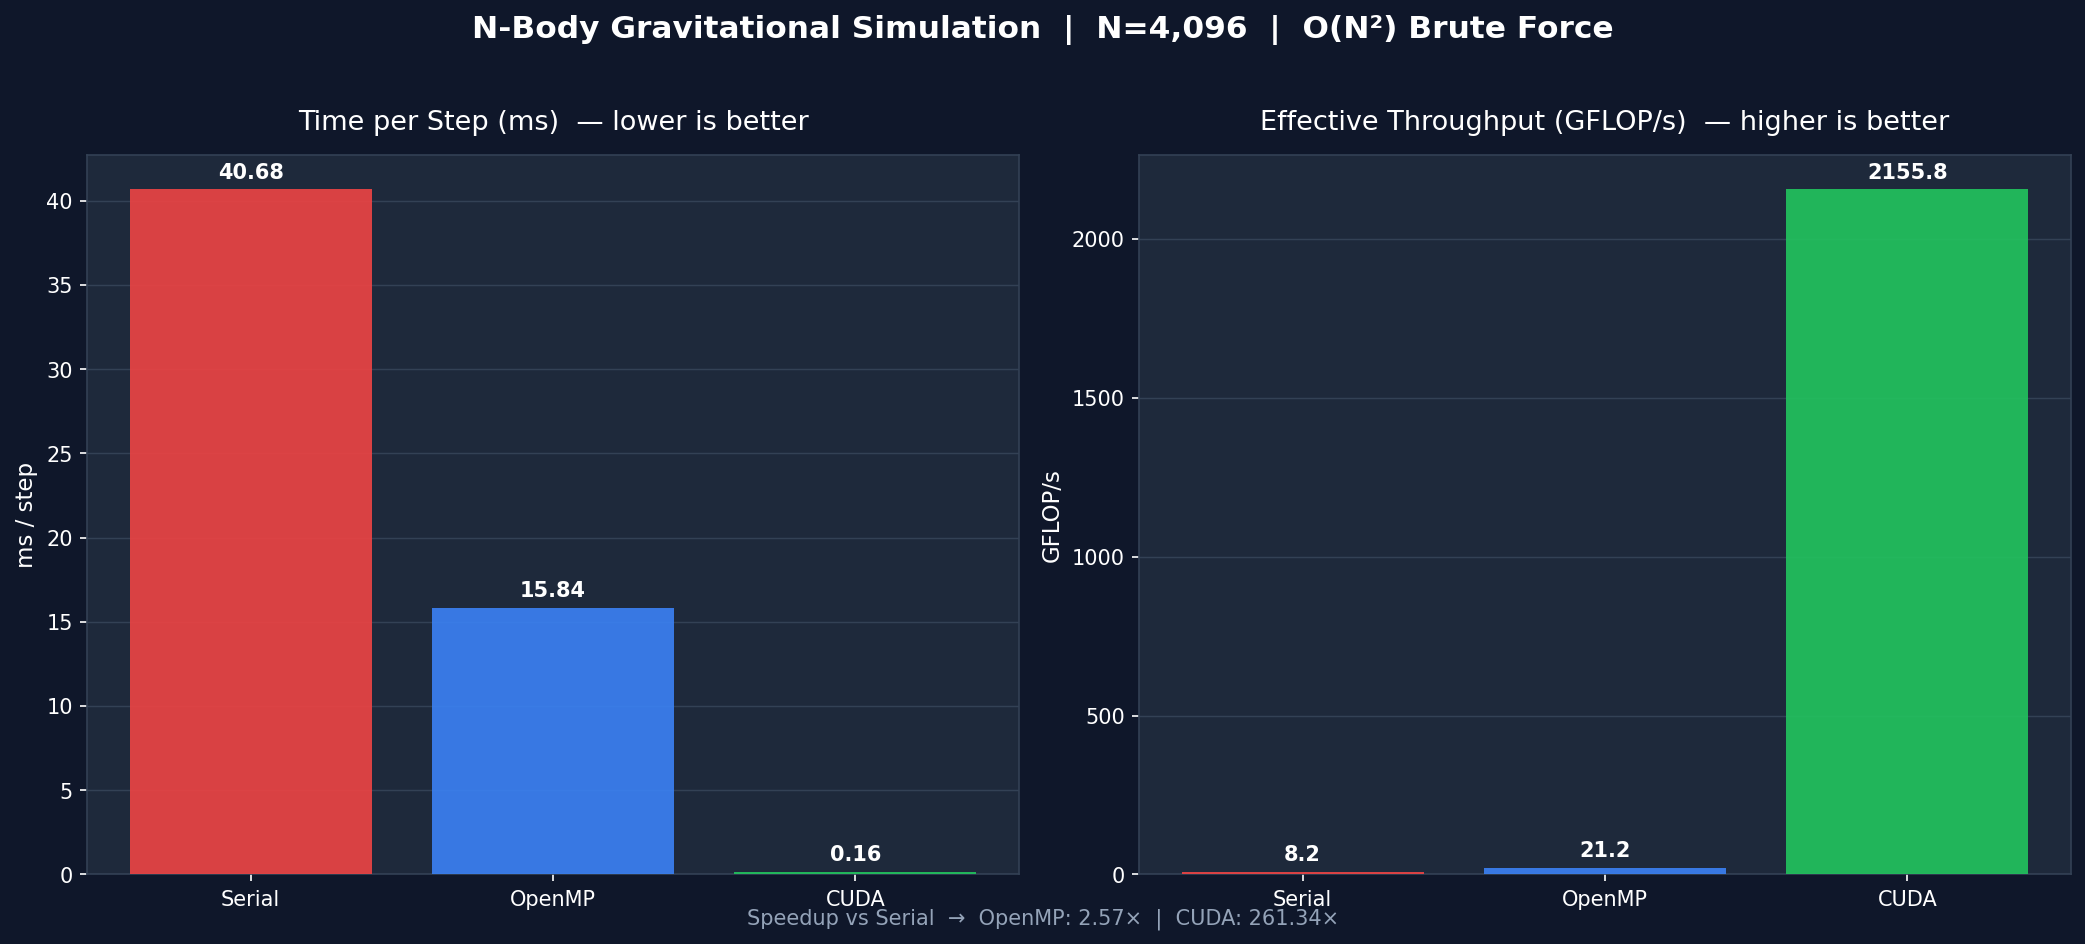
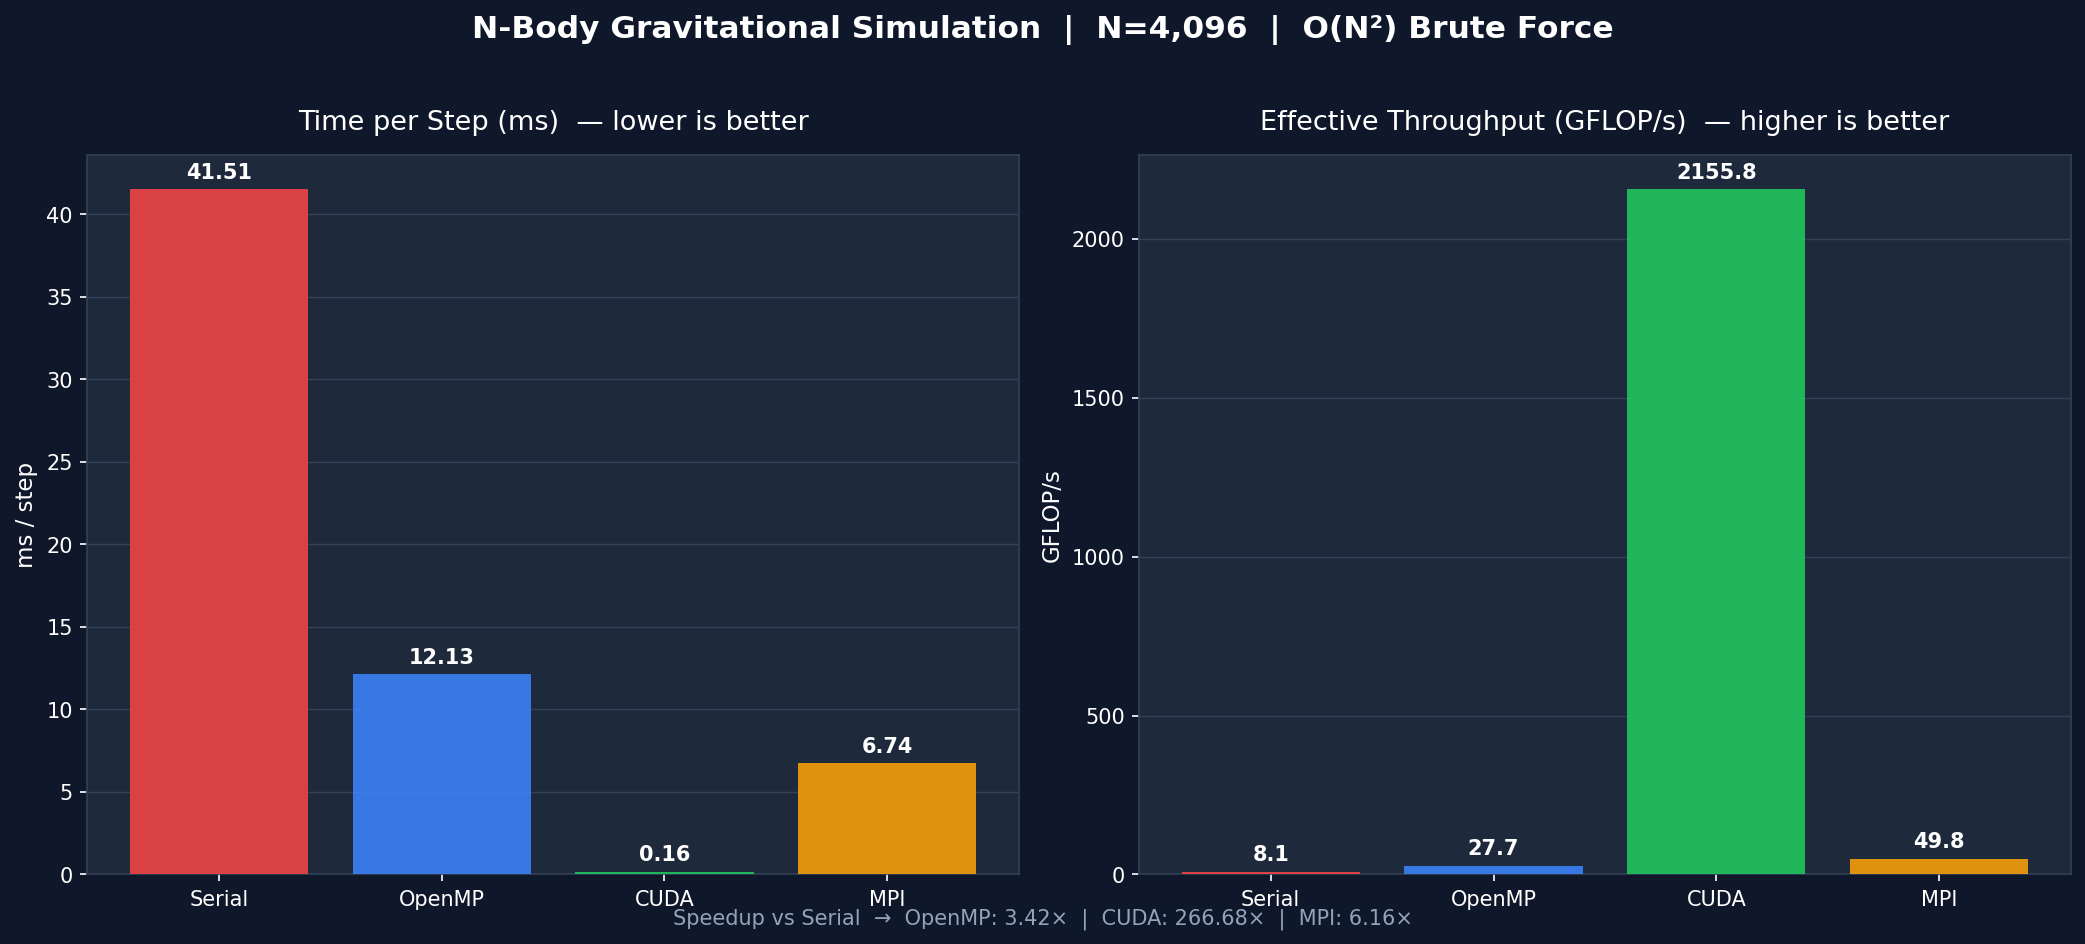
IPC demonstration

diff --git a/scripts/benchmark.py b/scripts/benchmark.py
@@ -175,9 +175,10 @@ def run_cuda(n: int, steps: int) -> Optional[dict]:
 def run_mpi(n: int, steps: int, ranks: Optional[int]) -> Optional[dict]:
     import multiprocessing
     if ranks is None:
-        ranks = multiprocessing.cpu_count()
+        # Cap at 8 by default; --oversubscribe lets OpenMPI exceed slot limits
+        ranks = min(multiprocessing.cpu_count(), 8)
     exe = BIN_DIR / "mpi"
-    out = _run(["mpirun", "-np", str(ranks), str(exe), str(n), str(steps)], "MPI")
+    out = _run(["mpirun", "--oversubscribe", "-np", str(ranks), str(exe), str(n), str(steps)], "MPI")
     return _parse_csv_line(out) if out else None
 
 
